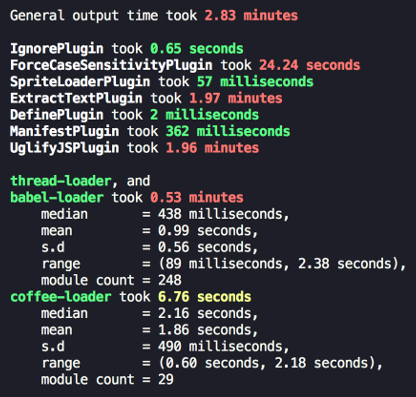
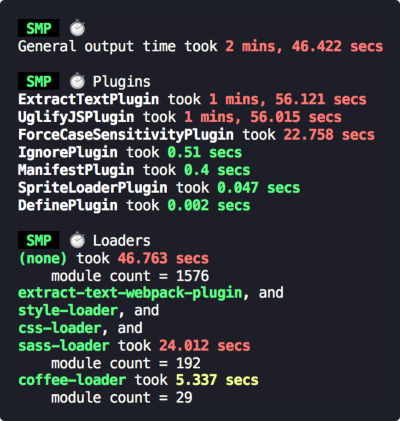
Improve the output format to make it more readable

diff --git a/output.js b/output.js
@@ -1,67 +1,94 @@
-const { b } = require("./colours");
+const MS_IN_MINUTE = 60000;
+const MS_IN_SECOND = 1000;
+
+const { fg, bg } = require("./colours");
 const { groupBy, getAverages, getTotalActiveTime } = require("./utils");
 
-const humanTime = ms => {
-  const hours = ms / 3600000;
-  const minutes = ms / 60000;
-  const seconds = ms / 1000;
+const humanTime = (ms, options = {}) => {
+  if (options.verbose) {
+    return ms.toLocaleString() + " ms";
+  }
 
-  if (hours > 0.5) return hours.toFixed(2) + " hours";
-  if (minutes > 0.5) return minutes.toFixed(2) + " minutes";
-  if (seconds > 0.5) return seconds.toFixed(2) + " seconds";
-  return ms.toFixed(0) + " milliseconds";
+  const minutes = Math.floor(ms / MS_IN_MINUTE);
+  const secondsRaw = (ms - minutes * MS_IN_MINUTE) / MS_IN_SECOND;
+  const secondsWhole = Math.floor(secondsRaw);
+  const remainderPrecision = secondsWhole > 0 ? 2 : 3;
+  const secondsRemainder = Math.min(secondsRaw - secondsWhole, 0.99);
+  const seconds =
+    secondsWhole +
+    secondsRemainder
+      .toPrecision(remainderPrecision)
+      .replace(/^0/, "")
+      .replace(/0+$/, "")
+      .replace(/^\.$/, "");
+
+  let time = "";
+
+  if (minutes > 0) time += minutes + " mins, ";
+  time += seconds + " secs";
+
+  return time;
 };
 
-module.exports.getHumanOutput = outputObj => {
-  const delim = "----------------------------";
-  let output = delim + "\n";
+module.exports.getHumanOutput = (outputObj, options = {}) => {
+  const hT = x => humanTime(x, options);
+  const smpTag = bg(" SMP ") + " ⏱ ";
+  let output = "\n\n" + smpTag + "\n";
 
   if (outputObj.misc) {
     output +=
       "General output time took " +
-      b(humanTime(outputObj.misc.compileTime), outputObj.misc.compileTime);
+      fg(hT(outputObj.misc.compileTime, options), outputObj.misc.compileTime);
     output += "\n\n";
   }
   if (outputObj.plugins) {
-    Object.keys(outputObj.plugins).forEach(pluginName => {
-      output +=
-        b(pluginName) +
-        " took " +
-        b(
-          humanTime(outputObj.plugins[pluginName]),
-          outputObj.plugins[pluginName]
-        );
-      output += "\n";
-    });
+    output += smpTag + " Plugins\n";
+    Object.keys(outputObj.plugins)
+      .sort(
+        (name1, name2) => outputObj.plugins[name2] - outputObj.plugins[name1]
+      )
+      .forEach(pluginName => {
+        output +=
+          fg(pluginName) +
+          " took " +
+          fg(hT(outputObj.plugins[pluginName]), outputObj.plugins[pluginName]);
+        output += "\n";
+      });
     output += "\n";
   }
   if (outputObj.loaders) {
-    outputObj.loaders.build.forEach(loaderObj => {
-      output +=
-        loaderObj.loaders.map(b).join(", and \n") +
-        " took " +
-        b(humanTime(loaderObj.activeTime), loaderObj.activeTime);
-      output += "\n";
-      output +=
-        "    median       = " + humanTime(loaderObj.averages.median) + ",\n";
-      output +=
-        "    mean         = " + humanTime(loaderObj.averages.mean) + ",\n";
-      if (typeof loaderObj.averages.variance === "number")
+    output += smpTag + " Loaders\n";
+    outputObj.loaders.build
+      .sort((obj1, obj2) => obj2.activeTime - obj1.activeTime)
+      .forEach(loaderObj => {
         output +=
-          "    s.d          = " +
-          humanTime(Math.sqrt(loaderObj.averages.variance)) +
-          ", \n";
-      output +=
-        "    range        = (" +
-        humanTime(loaderObj.averages.range.start) +
-        ", " +
-        humanTime(loaderObj.averages.range.end) +
-        "), \n";
-      output += "    module count = " + loaderObj.averages.dataPoints + "\n";
-    });
+          loaderObj.loaders.map(fg).join(", and \n") +
+          " took " +
+          fg(hT(loaderObj.activeTime), loaderObj.activeTime) +
+          "\n";
+
+        if (options.verbose) {
+          output +=
+            "    median       = " + hT(loaderObj.averages.median) + ",\n";
+          output += "    mean         = " + hT(loaderObj.averages.mean) + ",\n";
+          if (typeof loaderObj.averages.variance === "number")
+            output +=
+              "    s.d          = " +
+              hT(Math.sqrt(loaderObj.averages.variance)) +
+              ", \n";
+          output +=
+            "    range        = (" +
+            hT(loaderObj.averages.range.start) +
+            " --> " +
+            hT(loaderObj.averages.range.end) +
+            "), \n";
+        }
+
+        output += "    module count = " + loaderObj.averages.dataPoints + "\n";
+      });
   }
 
-  output += delim + "\n";
+  output += "\n\n";
 
   return output;
 };

diff --git a/index.js b/index.js
@@ -55,9 +55,13 @@ module.exports = class SpeedMeasurePlugin {
     if (this.timeEventData.loaders)
       outputObj.loaders = getLoadersOutput(this.timeEventData.loaders);
 
-    return this.options.outputFormat === "json"
-      ? JSON.stringify(outputObj, null, 2)
-      : getHumanOutput(outputObj);
+    if (this.options.outputFormat === "json")
+      return JSON.stringify(outputObj, null, 2);
+    if (typeof this.options.outputFormat === "function")
+      return this.options.outputFormat(outputObj);
+    return getHumanOutput(outputObj, {
+      verbose: this.options.outputFormat === "humanVerbose",
+    });
   }
 
   addTimeEvent(category, event, eventType, data = {}) {
@@ -99,7 +103,7 @@ module.exports = class SpeedMeasurePlugin {
       this.addTimeEvent("misc", "compile", "end");
 
       const output = this.getOutput();
-      if (this.options.outputTarget) {
+      if (typeof this.options.outputTarget === "string") {
         const strippedOutput = stripColours(output);
         const writeMethod = fs.existsSync(this.options.outputTarget)
           ? fs.appendFile
@@ -109,7 +113,8 @@ module.exports = class SpeedMeasurePlugin {
           console.log("Outputted timing info to " + this.options.outputTarget);
         });
       } else {
-        console.log(output);
+        const outputFunc = this.options.outputTarget || console.log;
+        outputFunc(output);
       }
 
       this.timeEventData = {};

diff --git a/colours.js b/colours.js
@@ -1,16 +1,19 @@
-const green = "\x1b[32m";
-const yellow = "\x1b[33m";
-const red = "\x1b[31m";
+const greenFg = "\x1b[32m";
+const yellowFg = "\x1b[33m";
+const redFg = "\x1b[31m";
+const blackBg = "\x1b[40m";
 const bold = "\x1b[1m";
 const end = "\x1b[0m";
 
-module.exports.b = (text, time) => {
+module.exports.fg = (text, time) => {
   let colour;
-  if (time >= 0) colour = green;
-  if (time > 2000) colour = yellow;
-  if (time > 10000) colour = red;
+  if (time >= 0) colour = greenFg;
+  if (time > 2000) colour = yellowFg;
+  if (time > 10000) colour = redFg;
 
   return (colour || "") + bold + text + end;
 };
+
+module.exports.bg = text => blackBg + greenFg + bold + text + end;
 
 module.exports.stripColours = text => text.replace(/\x1b\[[0-9]+m/g, "");

diff --git a/README.md b/README.md
@@ -93,20 +93,23 @@ SpeedMeasurePlugin.wrapPlugins(pluginMap, options);
 
 ### `options.outputFormat`
 
-Type: `String`<br>
+Type: `String|Function`<br>
 Default: `"human"`
 
 Determines in what format this plugin prints its measurements
 
  * `"json"` - produces a JSON blob
  * `"human"` - produces a human readable output
+ * `"humanVerbose"` - produces a more verbose version of the human readable output
+ * If a function, it will call the function with the JSON blob being the first parameter, and just the response of the function as the output
 
 ### `options.outputTarget`
 
-Type: `String`<br>
-Default: `undefined`
+Type: `String|Function`<br>
+Default: `console.log`
 
-Specifies the path to a file to output to. If undefined, then output will print to `console.log`
+* If a string, it specifies the path to a file to output to.
+* If a function, it will call the function with the output as the first parameter
 
 ### `options.disable`
 
